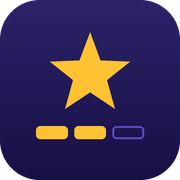
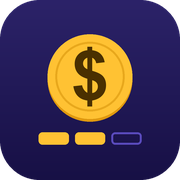
換成金幣圖示，補上分享預覽卡片
圖示改成金幣加 $ 符號（含 maskable 版），並新增 og.png 與 Open Graph
標籤。原本沒有這些標籤，LINE 只能自己抓頁面文字，標題吃到舊快取、
描述變成「換頭貼 Lv.1 記一筆」那串按鈕文字。

Changed region(s): [[0.1944, 0.1667, 0.8056, 0.8056]]

diff --git a/index.html b/index.html
@@ -5,6 +5,16 @@
 <meta name="viewport" content="width=device-width, initial-scale=1, viewport-fit=cover">
 <title>存錢Bo士</title>
 <link rel="manifest" href="manifest.json">
+<meta name="description" content="記帳與存錢進度">
+<meta property="og:type" content="website">
+<meta property="og:site_name" content="存錢Bo士">
+<meta property="og:title" content="存錢Bo士">
+<meta property="og:description" content="記帳與存錢進度">
+<meta property="og:url" content="https://bocby413.github.io/savequest/">
+<meta property="og:image" content="https://bocby413.github.io/savequest/og.png">
+<meta property="og:image:width" content="1200">
+<meta property="og:image:height" content="630">
+<meta name="twitter:card" content="summary_large_image">
 <meta name="theme-color" content="#120f2e">
 <meta name="mobile-web-app-capable" content="yes">
 <meta name="apple-mobile-web-app-capable" content="yes">

diff --git a/sw.js b/sw.js
@@ -1,7 +1,7 @@
 /* 存錢Bo士 — 離線快取。改版時把 VER 加一，手機才會抓到新版 */
-const VER = 'savequest-v22';
+const VER = 'savequest-v23';
 const FILES = ['./', './index.html', './manifest.json',
-  './icon-192.png', './icon-512.png', './icon-512-maskable.png', './icon-180.png', './icon-32.png'];
+  './icon-192.png', './icon-512.png', './icon-512-maskable.png', './icon-180.png', './icon-32.png', './og.png'];
 
 self.addEventListener('install', e => {
   e.waitUntil(caches.open(VER).then(c => c.addAll(FILES)).then(() => self.skipWaiting()));
